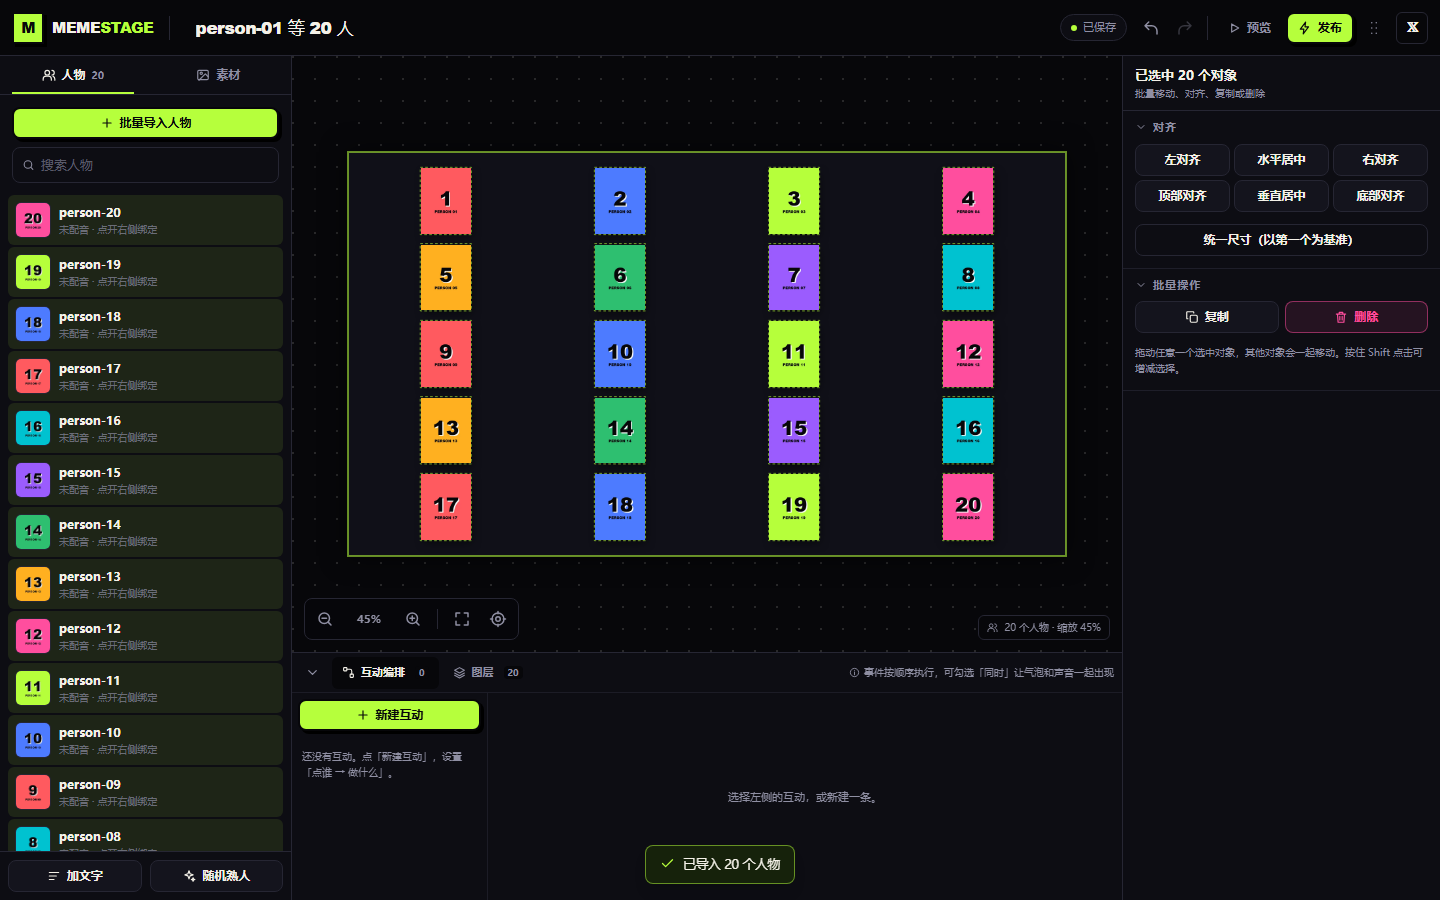
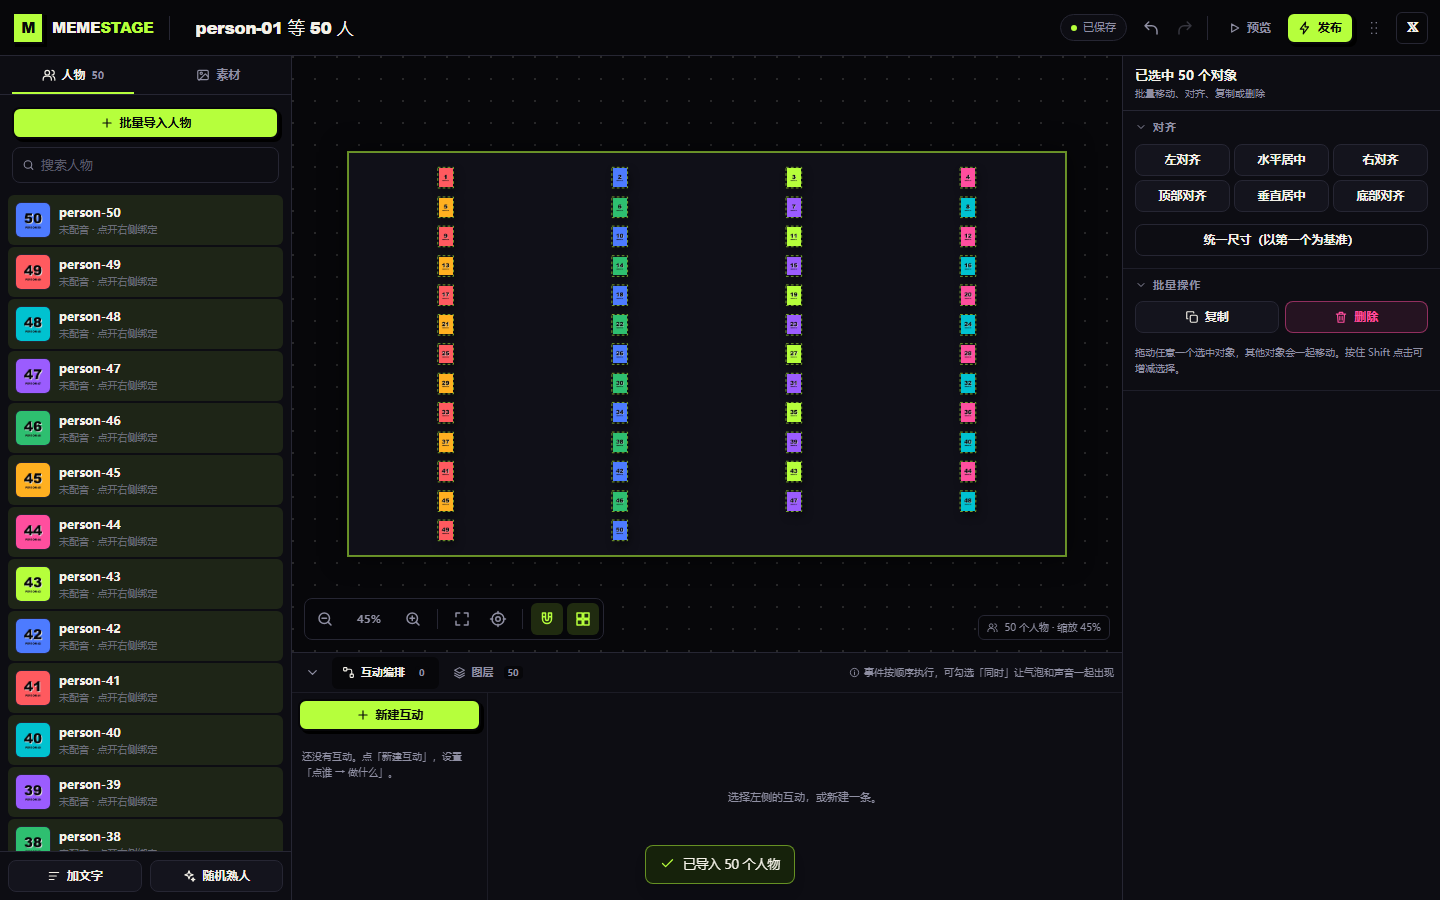
feat: MEME STAGE — interactive meme canvas
- infinite canvas editor (pan/zoom, multi-select, snapping, layers, undo)
- batch character import with six auto layouts
- per-character voices, bubble styling and interaction chains
- autosave, publish, OG cover and mobile visitor runtime
- Cloudflare Pages Functions + D1 + R2

diff --git a/README.md b/README.md
@@ -28,7 +28,7 @@
 
 ## 截图
 
-| 首页 · 可直接点人物试听 | 创作工作台 · 20 人物 |
+| 首页 · 可直接点人物试听 | 创作工作台 · 50 人物 |
 | --- | --- |
 | ![首页](docs/screenshots/home.png) | ![编辑器](docs/screenshots/editor.png) |
 
